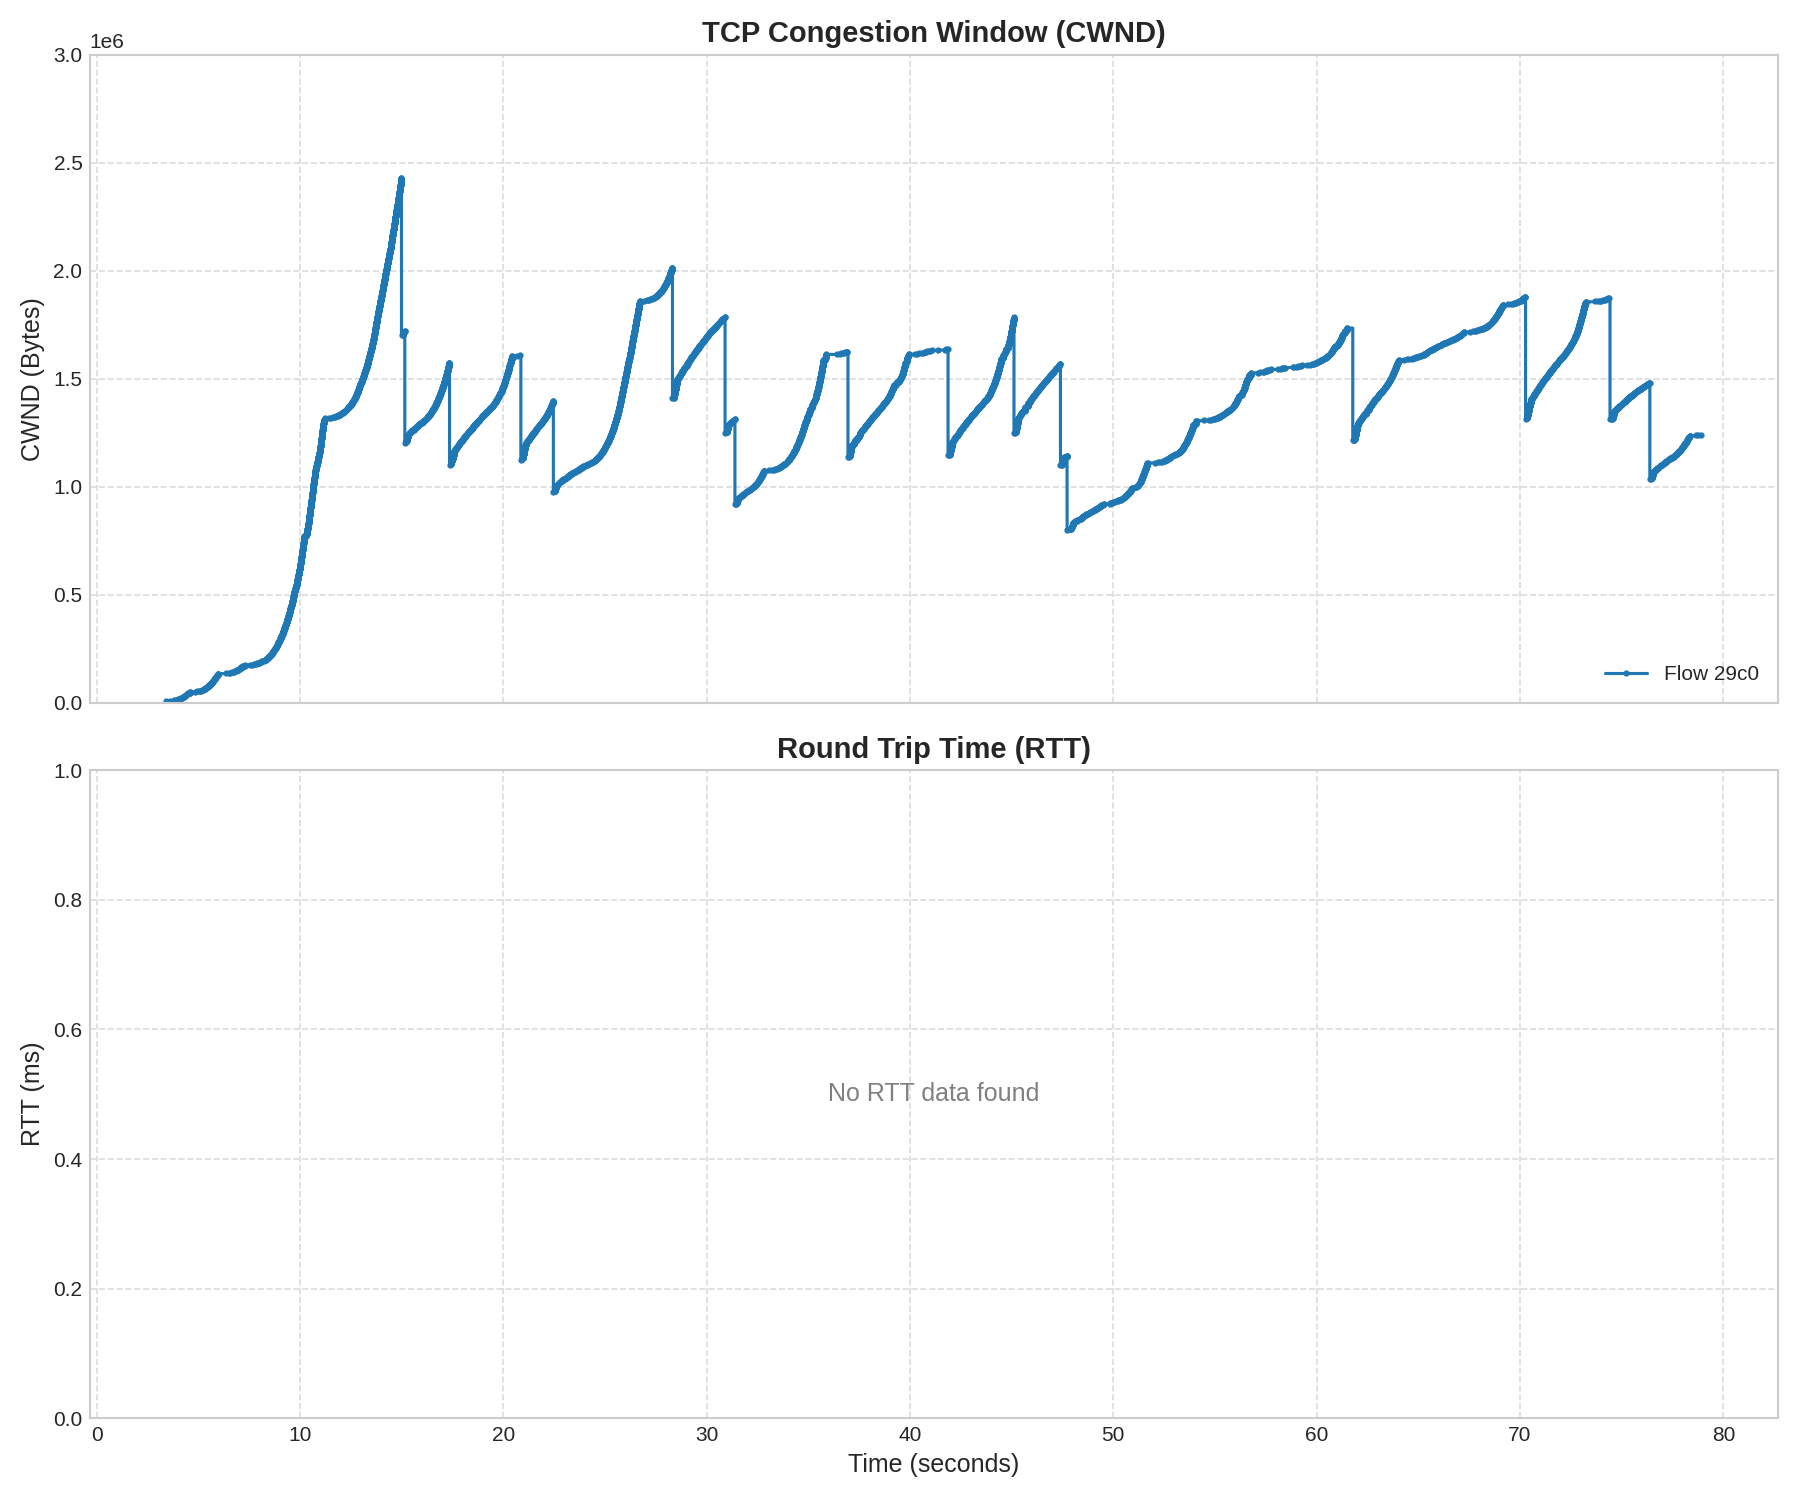
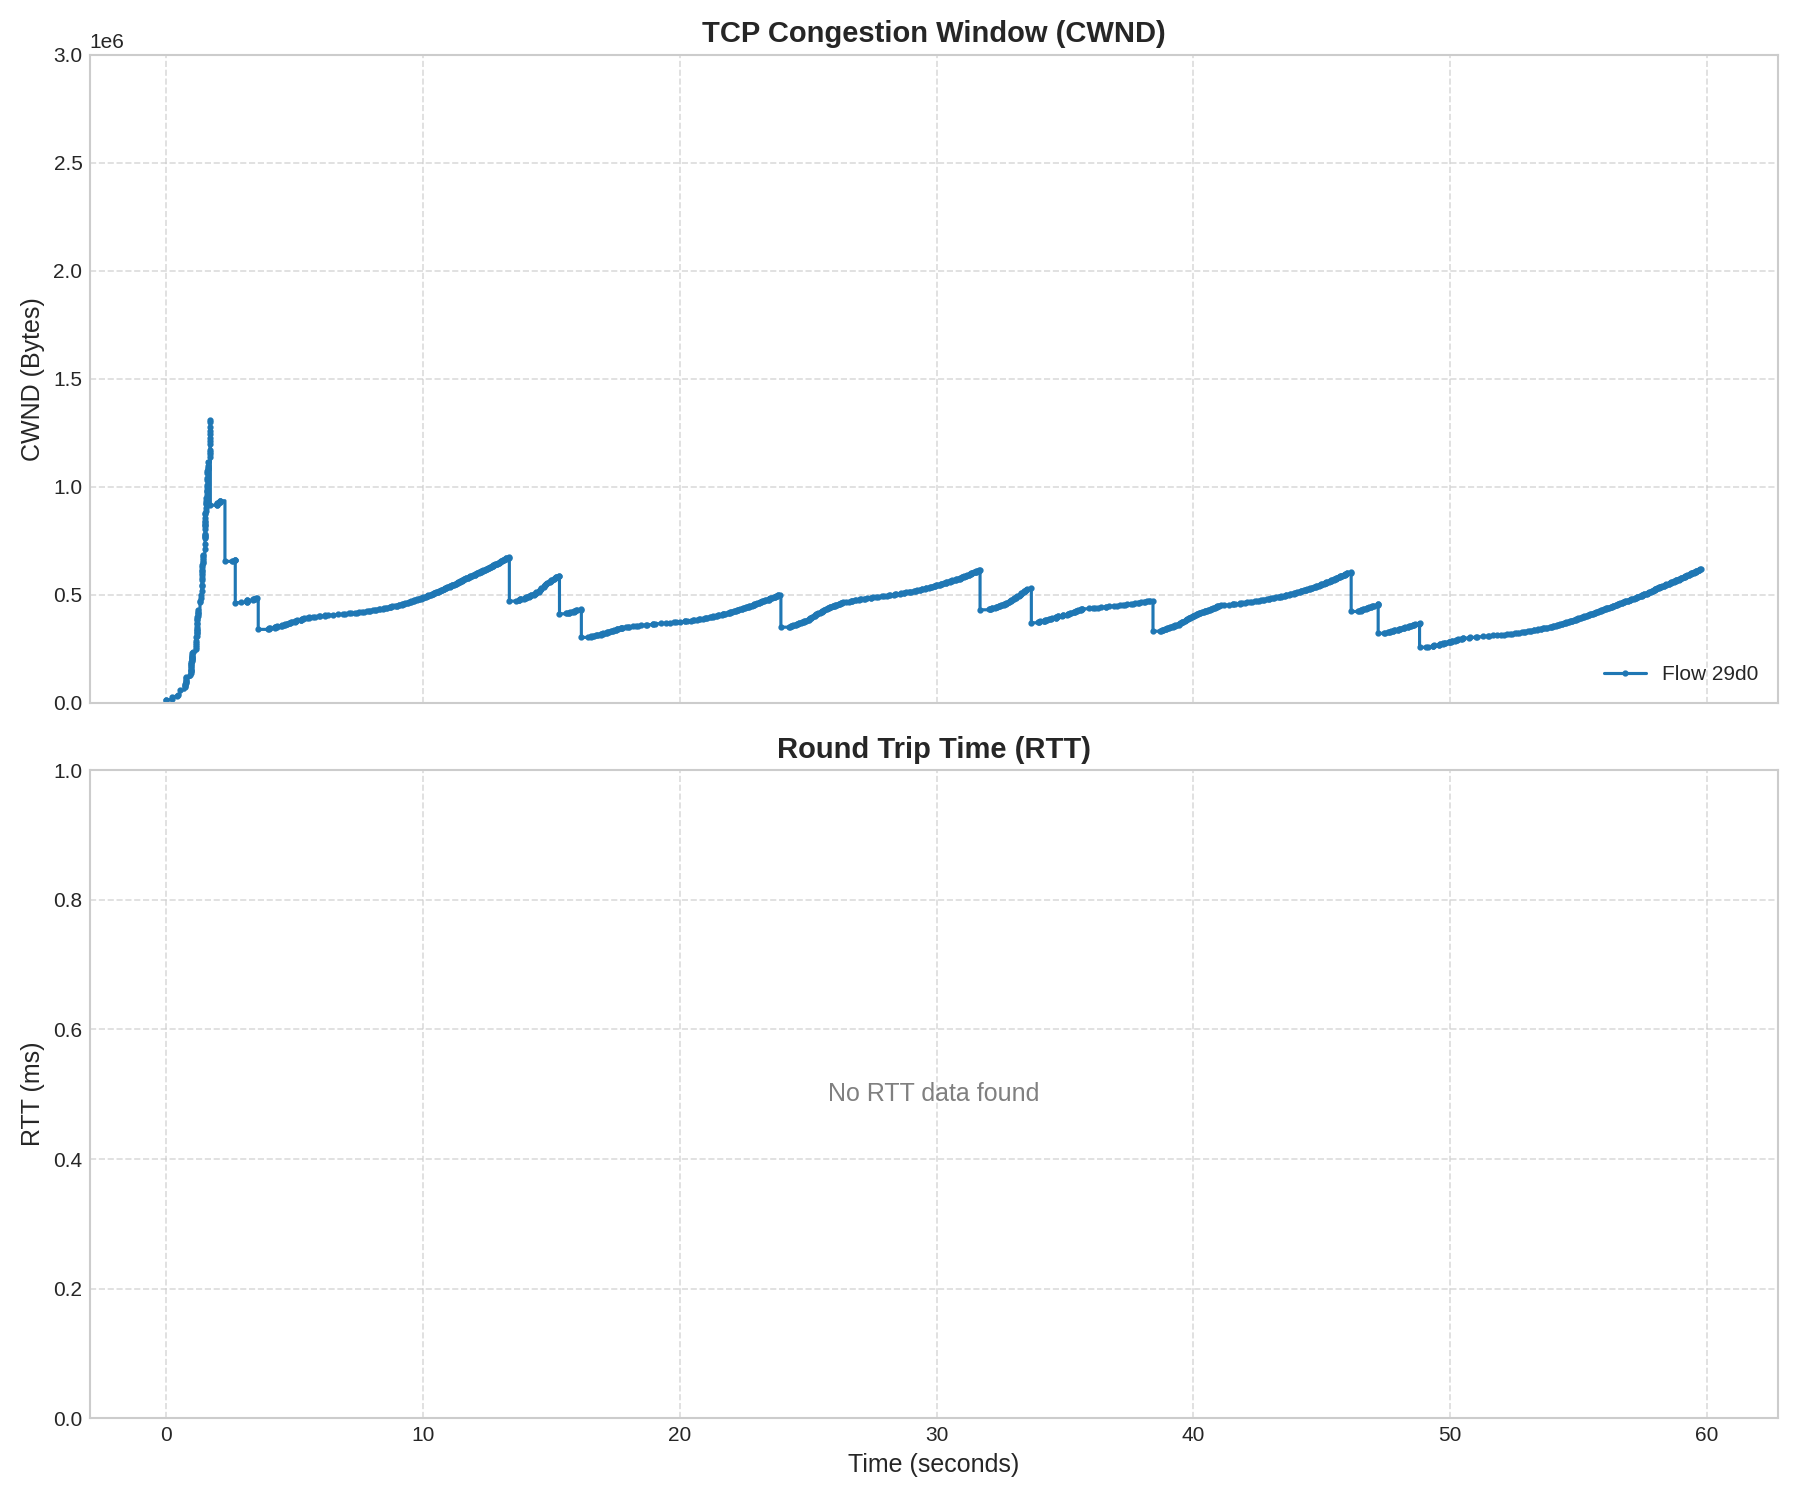
modify concave and convex difference

diff --git a/plot_metrics.py b/plot_metrics.py
@@ -383,6 +383,6 @@ def plot_network_metrics(server_data, output_filename="server_analysis_v2.png"):
     print(f"✅ 그래프 저장 완료: {output_filename}")
 
 if __name__ == "__main__":
-    server_log = "./build/bin/Release/testserver.txt"
+    server_log = "./build/bin/Release/20251231_KOREA_FIRST_TEST_SERVER_client6.txt"
     s_data = parse_server_log(server_log)
     plot_network_metrics(s_data)

diff --git a/src/core/cubicprobe.c b/src/core/cubicprobe.c
@@ -2386,7 +2386,8 @@ CubicProbeUpdate(
     uint32_t BoostFactor = 1 + CubicProbe->BoostLevel;
     uint32_t Divisor = BoostFactor * BoostFactor;
     
-    uint32_t CalculatedTarget = BaseAckTarget / Divisor;
+    uint32_t CalculatedTarget = BaseAckTarget / BoostFactor;
+    if(!CurrentIsConcave) CalculatedTarget /= BoostFactor;
 
     if (CalculatedTarget >= 2) {
         // [Mode 1: Pacing]
